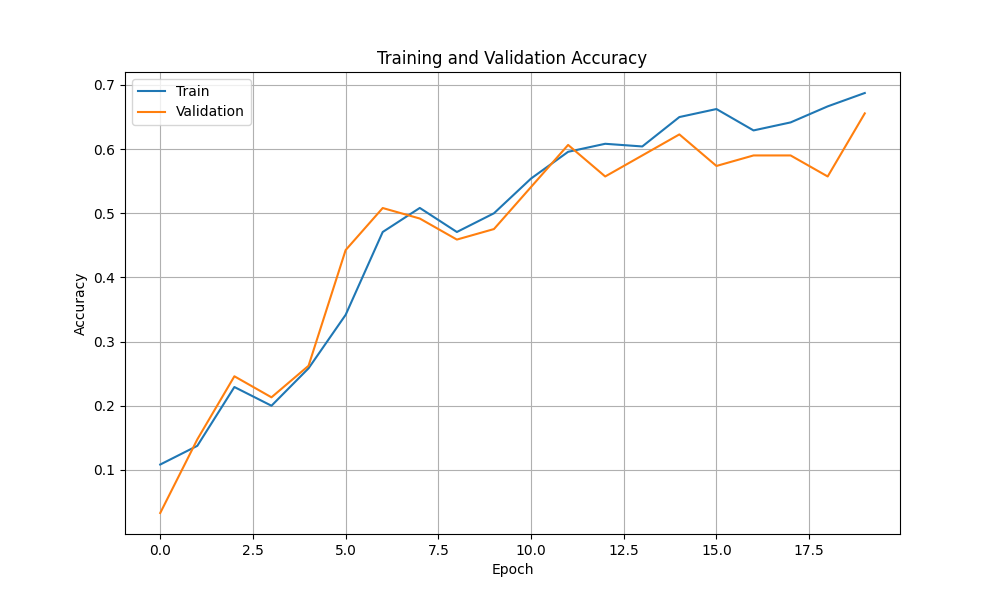
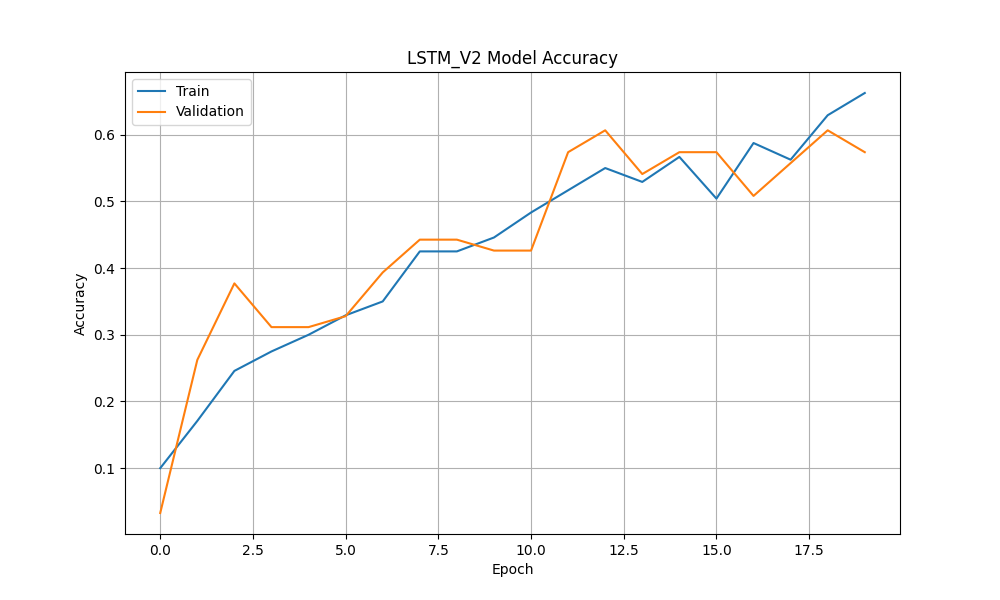
update LSTM_V2

diff --git a/Feature Selection/LSTM_V2/LSTM_V2_fixed.py b/Feature Selection/LSTM_V2/LSTM_V2_fixed.py
@@ -319,6 +319,6 @@ if __name__ == "__main__":
 
         plot_roc_curve(y_test_binarized, y_pred, num_classes, class_names)
         plot_confusion_matrix(y_test, y_pred.argmax(axis=1), class_names)
-        plot_training_accuracy(history, title='Training and Validation Accuracy', show_grid=True)
+        plot_training_accuracy(history, show_grid=True)
     else:
         print("Failed to load data.")
